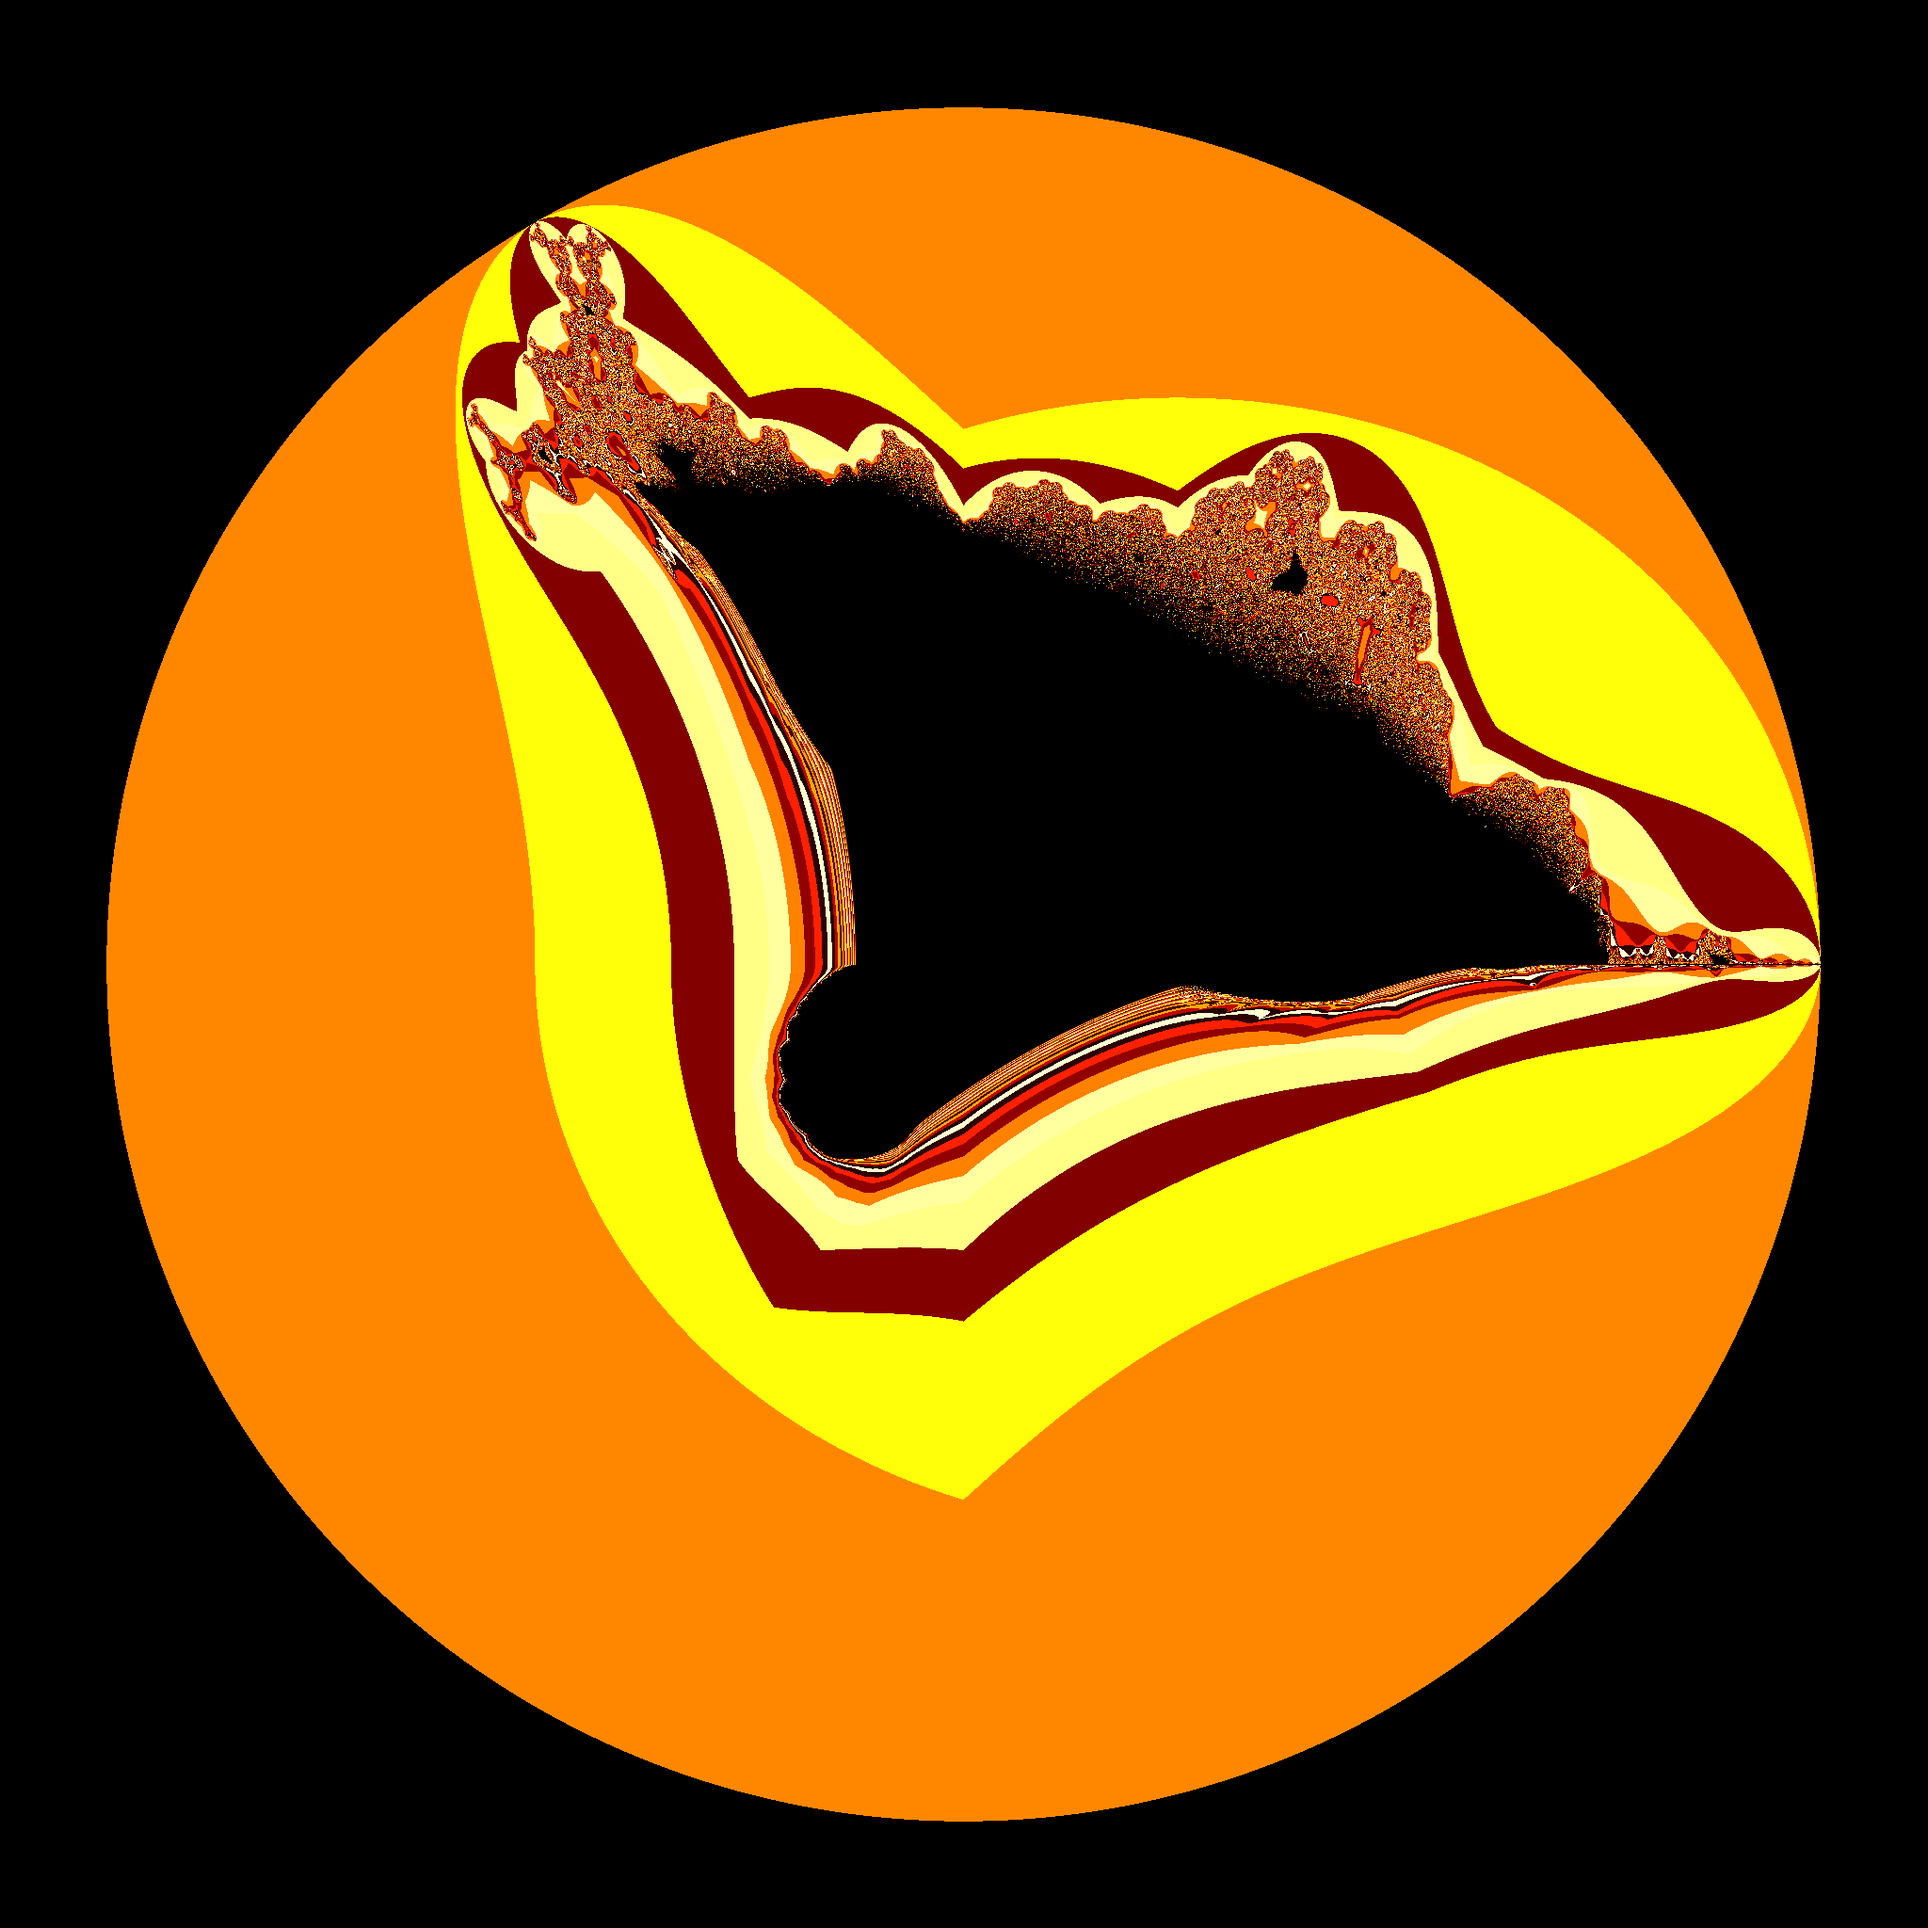
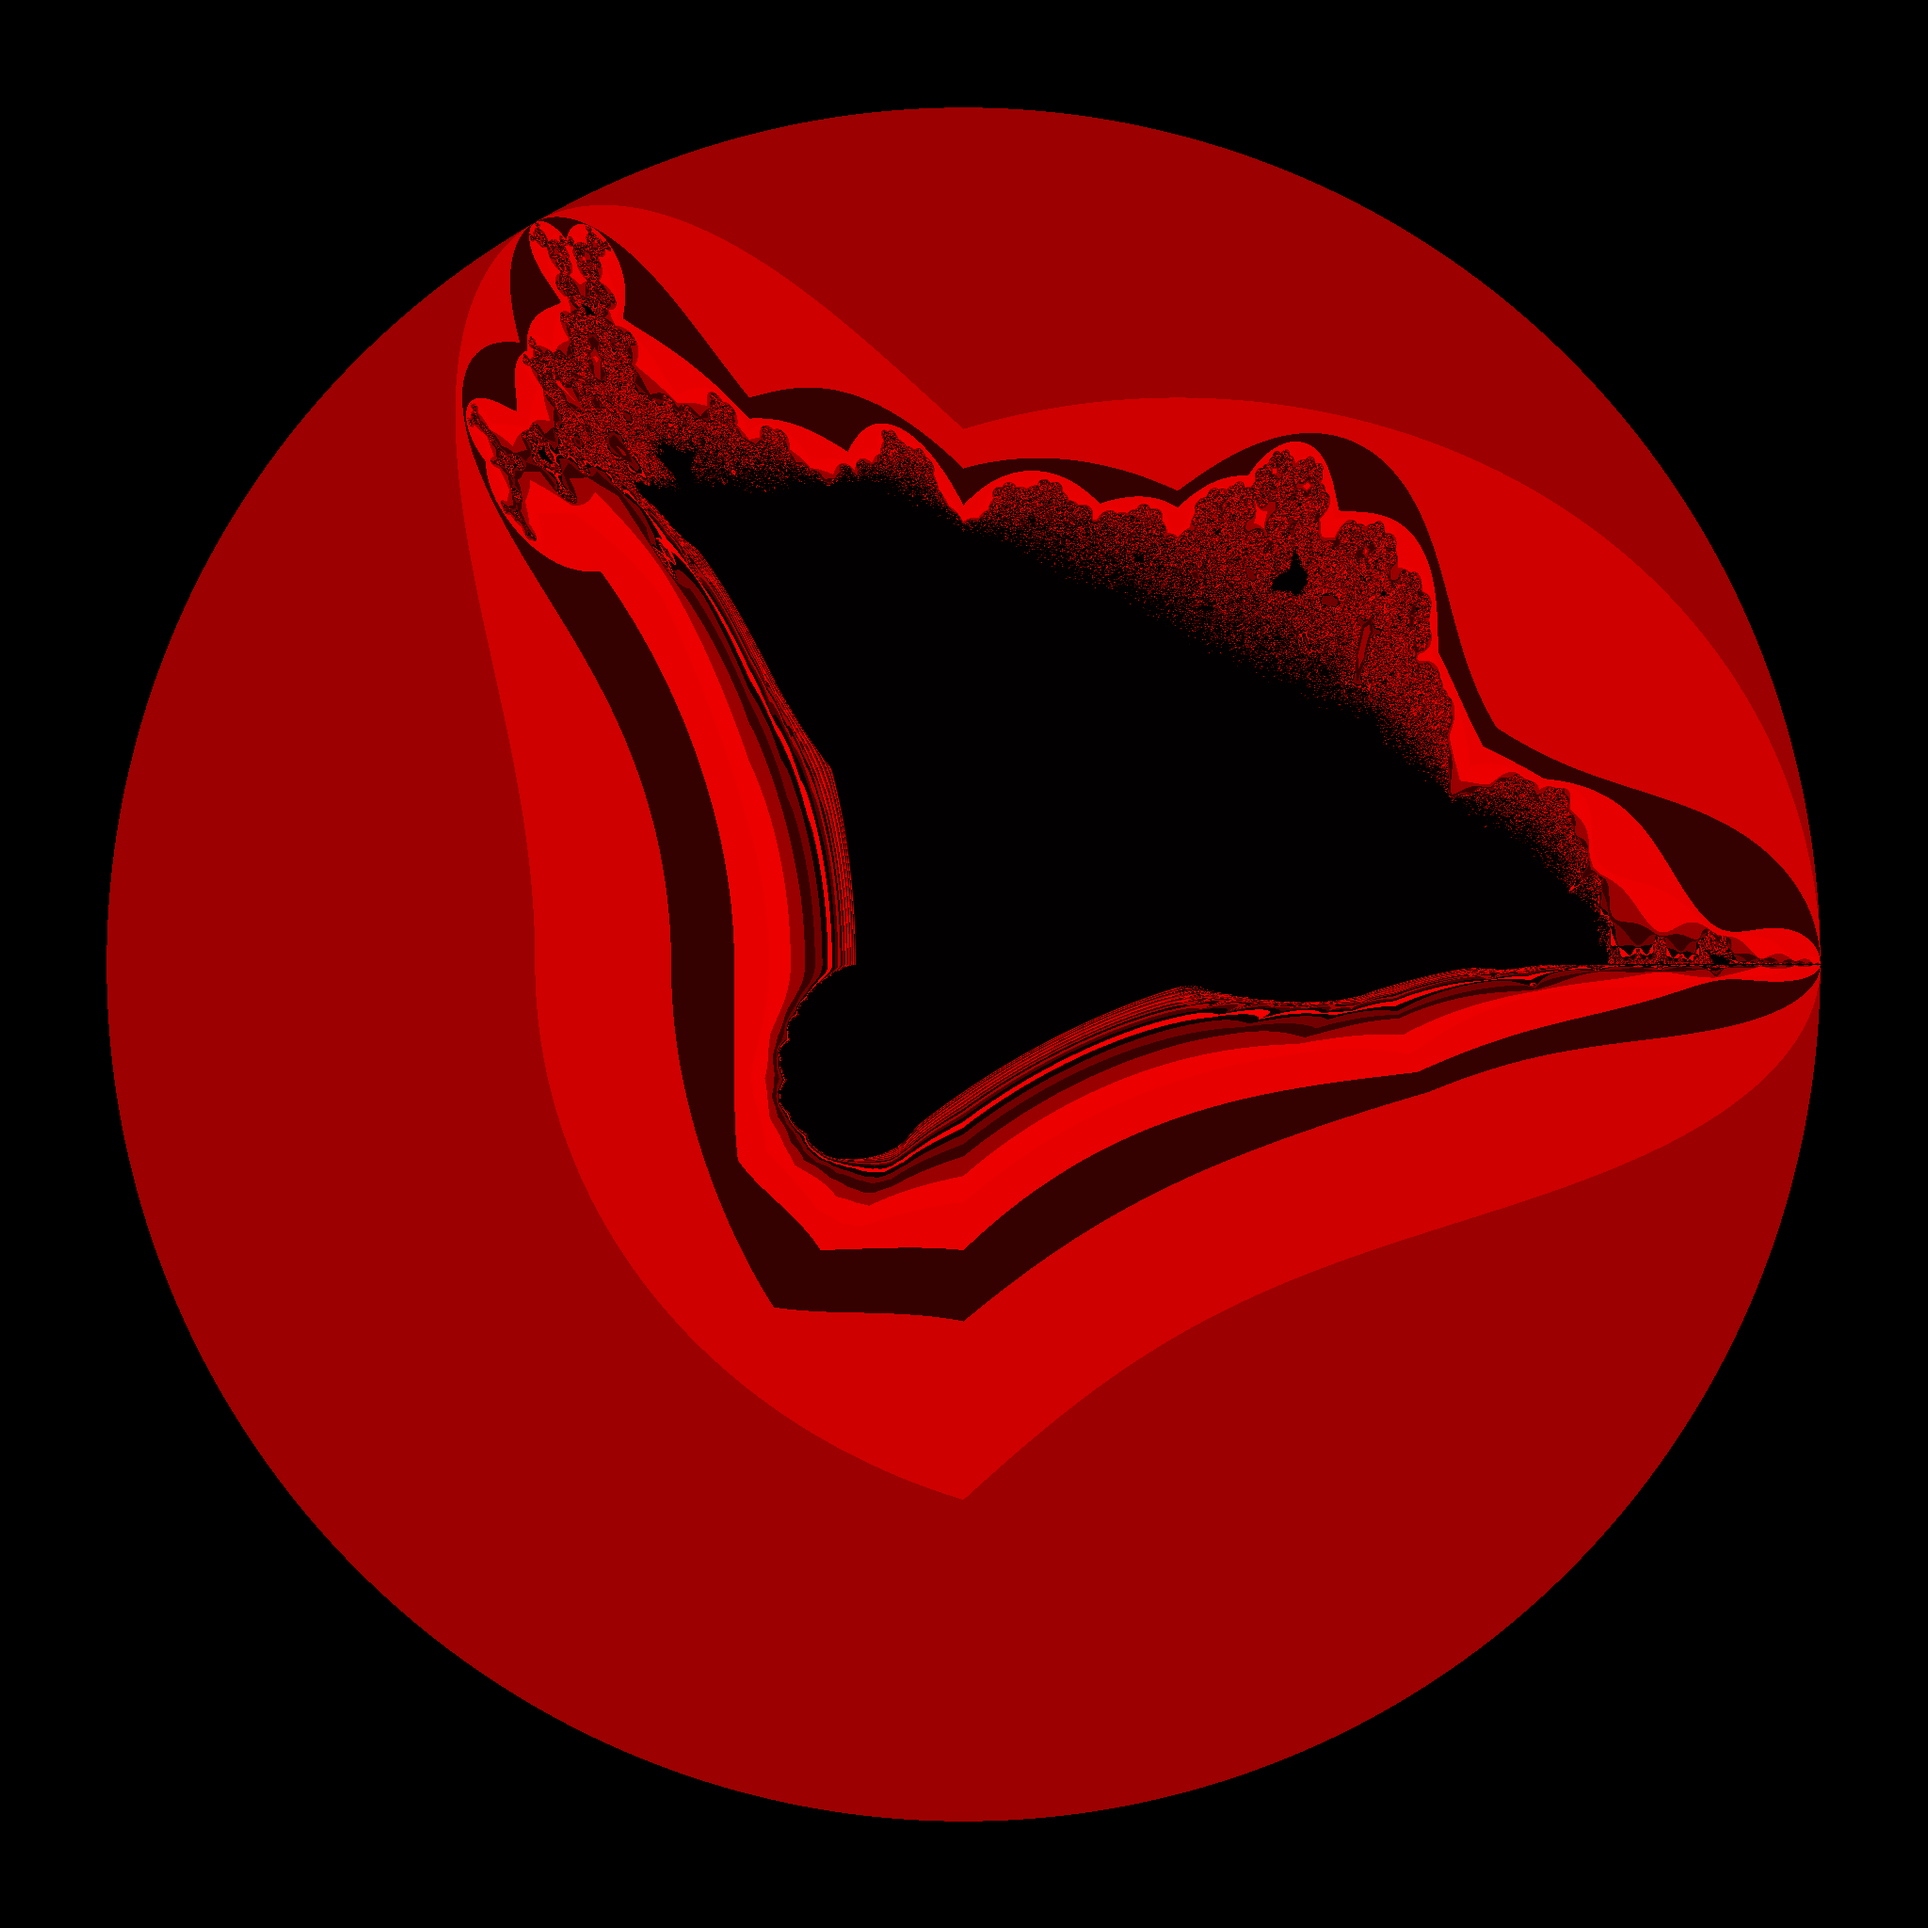
update burning ship sample and add more palettes

diff --git a/src/palettes/scripts/generate.py b/src/palettes/scripts/generate.py
@@ -33,6 +33,34 @@ def heat(x):
     return [color['r'], color['g'], color['b']]
 
 
+def gray(x):
+    data = pd.DataFrame([[0.0, 0.0, 0.0],
+                         [1.0, 1.0, 1.0]], columns=['r', 'g', 'b'])
+    color = lerp(x, data)
+    return [color['r'], color['g'], color['b']]
+
+
+def blue(x):
+    data = pd.DataFrame([[0.0, 0.0, 0.0],
+                         [0.0, 0.0, 1.0]], columns=['r', 'g', 'b'])
+    color = lerp(x, data)
+    return [color['r'], color['g'], color['b']]
+
+
+def green(x):
+    data = pd.DataFrame([[0.0, 0.0, 0.0],
+                         [0.0, 1.0, 0.0]], columns=['r', 'g', 'b'])
+    color = lerp(x, data)
+    return [color['r'], color['g'], color['b']]
+
+
+def red(x):
+    data = pd.DataFrame([[0.0, 0.0, 0.0],
+                         [1.0, 0.0, 0.0]], columns=['r', 'g', 'b'])
+    color = lerp(x, data)
+    return [color['r'], color['g'], color['b']]
+
+
 def hot(x):
     x = clamp(x)
     if x < 0.4:
@@ -160,8 +188,6 @@ def main():
 
     parser.add_argument('-t', '--type', required=True,
                         help='csv file to convert')
-    parser.add_argument('-o', '--output', required=True,
-                        help='output filename')
     parser.add_argument('-b', '--brightness', required=False,
                         default=1, type=int, help='Brightness factor')
 
@@ -191,6 +217,14 @@ def main():
             value = set1(x)
         elif args.type == 'paired':
             value = paired(x)
+        elif args.type == 'gray' or args.type == 'grey':
+            value = gray(x)
+        elif args.type == 'red':
+            value = red(x)
+        elif args.type == 'green':
+            value = green(x)
+        elif args.type == 'blue':
+            value = blue(x)
         else:
             value = [x, x, x]
 
